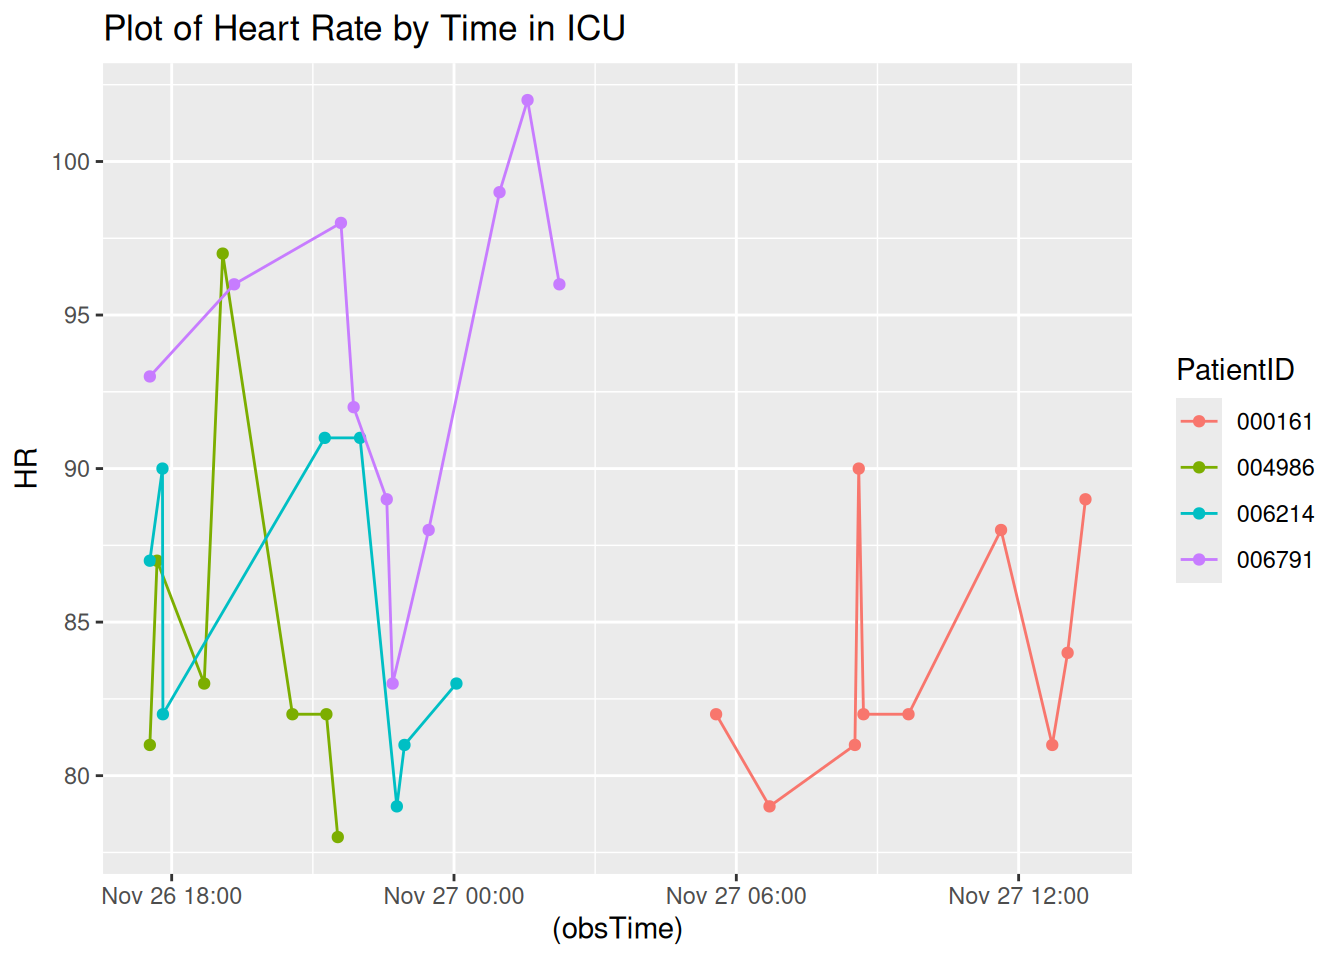
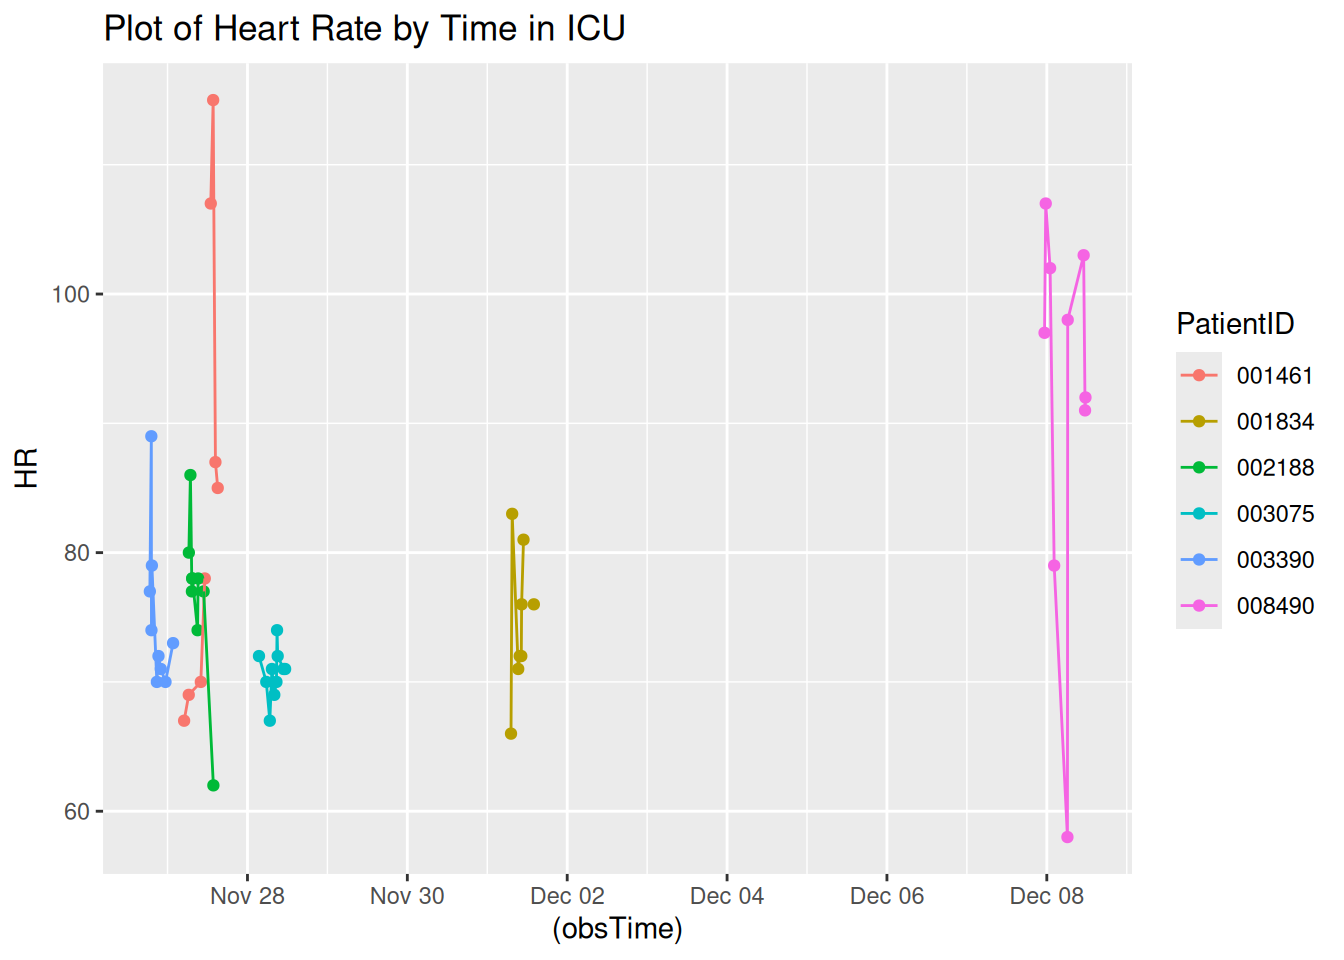
Updated report

diff --git a/A7.html b/A7.html
@@ -119,7 +119,7 @@ pre > code.sourceCode > span > a:first-child::before { text-decoration: underlin
 </div>
 <div class="code-copy-outer-scaffold"><div class="sourceCode cell-code" id="cb4"><pre class="sourceCode r code-with-copy"><code class="sourceCode r"><span id="cb4-1"><a href="#cb4-1" aria-hidden="true" tabindex="-1"></a><span class="fu">toc</span>()</span></code></pre></div><button title="Copy to Clipboard" class="code-copy-button"><i class="bi"></i></button></div>
 <div class="cell-output cell-output-stdout">
-<pre><code>22.832 sec elapsed</code></pre>
+<pre><code>23.364 sec elapsed</code></pre>
 </div>
 <div class="code-copy-outer-scaffold"><div class="sourceCode cell-code" id="cb6"><pre class="sourceCode r code-with-copy"><code class="sourceCode r"><span id="cb6-1"><a href="#cb6-1" aria-hidden="true" tabindex="-1"></a><span class="fu">tic</span>()</span>
 <span id="cb6-2"><a href="#cb6-2" aria-hidden="true" tabindex="-1"></a>test1<span class="ot">=</span><span class="fu">makeSepsisDataset</span>(<span class="at">n=</span><span class="dv">50</span>,<span class="at">read_fn =</span> <span class="st">"read_delim"</span>)</span>
@@ -129,7 +129,7 @@ pre > code.sourceCode > span > a:first-child::before { text-decoration: underlin
 </div>
 <div class="code-copy-outer-scaffold"><div class="sourceCode cell-code" id="cb8"><pre class="sourceCode r code-with-copy"><code class="sourceCode r"><span id="cb8-1"><a href="#cb8-1" aria-hidden="true" tabindex="-1"></a><span class="fu">toc</span>()</span></code></pre></div><button title="Copy to Clipboard" class="code-copy-button"><i class="bi"></i></button></div>
 <div class="cell-output cell-output-stdout">
-<pre><code>22.232 sec elapsed</code></pre>
+<pre><code>21.256 sec elapsed</code></pre>
 </div>
 <div class="code-copy-outer-scaffold"><div class="sourceCode cell-code" id="cb10"><pre class="sourceCode r code-with-copy"><code class="sourceCode r"><span id="cb10-1"><a href="#cb10-1" aria-hidden="true" tabindex="-1"></a><span class="co"># n=100</span></span>
 <span id="cb10-2"><a href="#cb10-2" aria-hidden="true" tabindex="-1"></a><span class="fu">tic</span>()</span>
@@ -140,7 +140,7 @@ pre > code.sourceCode > span > a:first-child::before { text-decoration: underlin
 </div>
 <div class="code-copy-outer-scaffold"><div class="sourceCode cell-code" id="cb12"><pre class="sourceCode r code-with-copy"><code class="sourceCode r"><span id="cb12-1"><a href="#cb12-1" aria-hidden="true" tabindex="-1"></a><span class="fu">toc</span>()</span></code></pre></div><button title="Copy to Clipboard" class="code-copy-button"><i class="bi"></i></button></div>
 <div class="cell-output cell-output-stdout">
-<pre><code>39.921 sec elapsed</code></pre>
+<pre><code>40.012 sec elapsed</code></pre>
 </div>
 <div class="code-copy-outer-scaffold"><div class="sourceCode cell-code" id="cb14"><pre class="sourceCode r code-with-copy"><code class="sourceCode r"><span id="cb14-1"><a href="#cb14-1" aria-hidden="true" tabindex="-1"></a><span class="fu">tic</span>()</span>
 <span id="cb14-2"><a href="#cb14-2" aria-hidden="true" tabindex="-1"></a>test1<span class="ot">=</span><span class="fu">makeSepsisDataset</span>(<span class="at">n=</span><span class="dv">100</span>,<span class="at">read_fn =</span> <span class="st">"read_delim"</span>)</span>
@@ -150,7 +150,7 @@ pre > code.sourceCode > span > a:first-child::before { text-decoration: underlin
 </div>
 <div class="code-copy-outer-scaffold"><div class="sourceCode cell-code" id="cb16"><pre class="sourceCode r code-with-copy"><code class="sourceCode r"><span id="cb16-1"><a href="#cb16-1" aria-hidden="true" tabindex="-1"></a><span class="fu">toc</span>()</span></code></pre></div><button title="Copy to Clipboard" class="code-copy-button"><i class="bi"></i></button></div>
 <div class="cell-output cell-output-stdout">
-<pre><code>42.192 sec elapsed</code></pre>
+<pre><code>43.079 sec elapsed</code></pre>
 </div>
 <div class="code-copy-outer-scaffold"><div class="sourceCode cell-code" id="cb18"><pre class="sourceCode r code-with-copy"><code class="sourceCode r"><span id="cb18-1"><a href="#cb18-1" aria-hidden="true" tabindex="-1"></a><span class="co"># n=500</span></span>
 <span id="cb18-2"><a href="#cb18-2" aria-hidden="true" tabindex="-1"></a><span class="fu">tic</span>()</span>
@@ -161,7 +161,7 @@ pre > code.sourceCode > span > a:first-child::before { text-decoration: underlin
 </div>
 <div class="code-copy-outer-scaffold"><div class="sourceCode cell-code" id="cb20"><pre class="sourceCode r code-with-copy"><code class="sourceCode r"><span id="cb20-1"><a href="#cb20-1" aria-hidden="true" tabindex="-1"></a><span class="fu">toc</span>()</span></code></pre></div><button title="Copy to Clipboard" class="code-copy-button"><i class="bi"></i></button></div>
 <div class="cell-output cell-output-stdout">
-<pre><code>205.821 sec elapsed</code></pre>
+<pre><code>204.23 sec elapsed</code></pre>
 </div>
 <div class="code-copy-outer-scaffold"><div class="sourceCode cell-code" id="cb22"><pre class="sourceCode r code-with-copy"><code class="sourceCode r"><span id="cb22-1"><a href="#cb22-1" aria-hidden="true" tabindex="-1"></a><span class="fu">tic</span>()</span>
 <span id="cb22-2"><a href="#cb22-2" aria-hidden="true" tabindex="-1"></a>test1<span class="ot">=</span><span class="fu">makeSepsisDataset</span>(<span class="at">n=</span><span class="dv">500</span>,<span class="at">read_fn =</span> <span class="st">"read_delim"</span>)</span>
@@ -171,7 +171,7 @@ pre > code.sourceCode > span > a:first-child::before { text-decoration: underlin
 </div>
 <div class="code-copy-outer-scaffold"><div class="sourceCode cell-code" id="cb24"><pre class="sourceCode r code-with-copy"><code class="sourceCode r"><span id="cb24-1"><a href="#cb24-1" aria-hidden="true" tabindex="-1"></a><span class="fu">toc</span>()</span></code></pre></div><button title="Copy to Clipboard" class="code-copy-button"><i class="bi"></i></button></div>
 <div class="cell-output cell-output-stdout">
-<pre><code>214.562 sec elapsed</code></pre>
+<pre><code>215.147 sec elapsed</code></pre>
 </div>
 </div>
 <p><strong>Task 3</strong></p>
@@ -197,7 +197,7 @@ pre > code.sourceCode > span > a:first-child::before { text-decoration: underlin
 <span id="cb28-4"><a href="#cb28-4" aria-hidden="true" tabindex="-1"></a></span>
 <span id="cb28-5"><a href="#cb28-5" aria-hidden="true" tabindex="-1"></a><span class="fu">Sys.time</span>()</span></code></pre></div><button title="Copy to Clipboard" class="code-copy-button"><i class="bi"></i></button></div>
 <div class="cell-output cell-output-stdout">
-<pre><code>[1] "2025-11-26 17:32:10 UTC"</code></pre>
+<pre><code>[1] "2025-11-26 18:41:23 UTC"</code></pre>
 </div>
 <div class="code-copy-outer-scaffold"><div class="sourceCode cell-code" id="cb30"><pre class="sourceCode r code-with-copy"><code class="sourceCode r"><span id="cb30-1"><a href="#cb30-1" aria-hidden="true" tabindex="-1"></a>dfnew <span class="ot">&lt;-</span> df <span class="sc">%&gt;%</span></span>
 <span id="cb30-2"><a href="#cb30-2" aria-hidden="true" tabindex="-1"></a>  <span class="fu">subset</span>(SepsisLabel<span class="sc">==</span><span class="dv">1</span>)</span>
@@ -226,40 +226,58 @@ pre > code.sourceCode > span > a:first-child::before { text-decoration: underlin
 </thead>
 <tbody>
 <tr class="odd">
-<td style="text-align: left;">000161</td>
+<td style="text-align: left;">001461</td>
 <td style="text-align: right;">21</td>
-<td style="text-align: right;">89</td>
+<td style="text-align: right;">85</td>
 <td style="text-align: right;">NA</td>
-<td style="text-align: right;">20</td>
+<td style="text-align: right;">19</td>
 <td style="text-align: right;">1</td>
-<td style="text-align: left;">2025-11-27 13:25:13</td>
+<td style="text-align: left;">2025-11-27 15:04:17</td>
 </tr>
 <tr class="even">
-<td style="text-align: left;">004986</td>
-<td style="text-align: right;">6</td>
-<td style="text-align: right;">78</td>
+<td style="text-align: left;">001834</td>
+<td style="text-align: right;">116</td>
+<td style="text-align: right;">76</td>
 <td style="text-align: right;">NA</td>
-<td style="text-align: right;">10</td>
+<td style="text-align: right;">14</td>
 <td style="text-align: right;">1</td>
-<td style="text-align: left;">2025-11-26 21:31:48</td>
+<td style="text-align: left;">2025-12-01 13:59:11</td>
 </tr>
 <tr class="odd">
-<td style="text-align: left;">006214</td>
-<td style="text-align: right;">7</td>
-<td style="text-align: right;">83</td>
+<td style="text-align: left;">002188</td>
+<td style="text-align: right;">20</td>
+<td style="text-align: right;">62</td>
 <td style="text-align: right;">NA</td>
-<td style="text-align: right;">16</td>
+<td style="text-align: right;">28</td>
 <td style="text-align: right;">1</td>
-<td style="text-align: left;">2025-11-27 00:03:06</td>
+<td style="text-align: left;">2025-11-27 13:45:49</td>
 </tr>
 <tr class="even">
-<td style="text-align: left;">006791</td>
-<td style="text-align: right;">9</td>
-<td style="text-align: right;">96</td>
-<td style="text-align: right;">36.7</td>
-<td style="text-align: right;">16</td>
+<td style="text-align: left;">003075</td>
+<td style="text-align: right;">42</td>
+<td style="text-align: right;">71</td>
+<td style="text-align: right;">NA</td>
+<td style="text-align: right;">19</td>
 <td style="text-align: right;">1</td>
-<td style="text-align: left;">2025-11-27 02:14:24</td>
+<td style="text-align: left;">2025-11-28 11:18:14</td>
+</tr>
+<tr class="odd">
+<td style="text-align: left;">003390</td>
+<td style="text-align: right;">8</td>
+<td style="text-align: right;">73</td>
+<td style="text-align: right;">NA</td>
+<td style="text-align: right;">14</td>
+<td style="text-align: right;">1</td>
+<td style="text-align: left;">2025-11-27 01:39:59</td>
+</tr>
+<tr class="even">
+<td style="text-align: left;">008490</td>
+<td style="text-align: right;">284</td>
+<td style="text-align: right;">92</td>
+<td style="text-align: right;">36.61</td>
+<td style="text-align: right;">17</td>
+<td style="text-align: right;">1</td>
+<td style="text-align: left;">2025-12-08 11:36:27</td>
 </tr>
 </tbody>
 </table>
